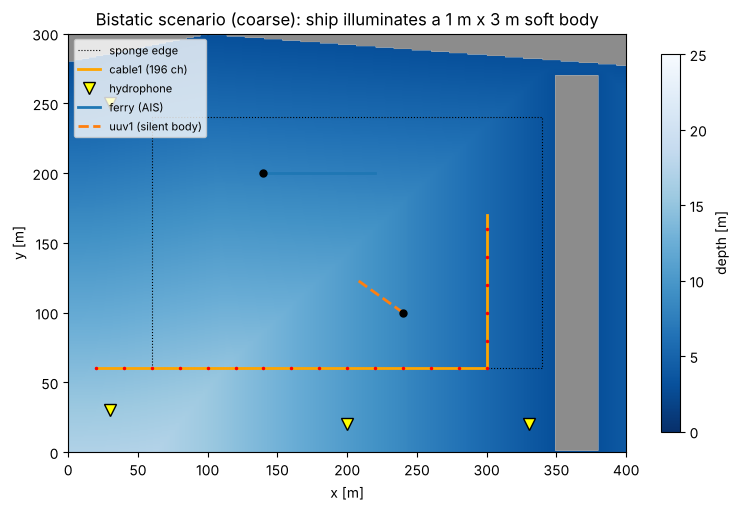
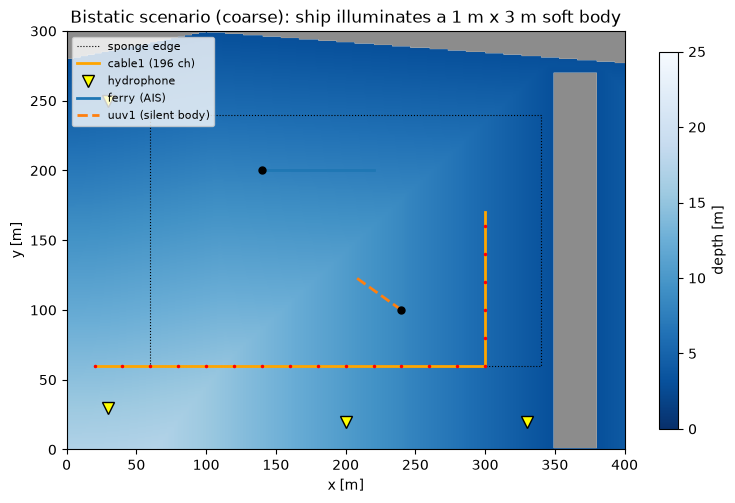
bistatic: ECA projection loading 1e-12 (0.3 dB from the QR on the fine case)

diff --git a/src/acoustic_sim/harbor/bistatic.py b/src/acoustic_sim/harbor/bistatic.py
@@ -415,14 +415,14 @@ class ECAReport:
     echo_lost_db: np.ndarray        # (N,) energy of the scattered component removed [dB]
 
 
-def _project_out(S: np.ndarray, segs: list[np.ndarray], loading: float = 1e-9) -> list[np.ndarray]:
+def _project_out(S: np.ndarray, segs: list[np.ndarray], loading: float = 1e-12) -> list[np.ndarray]:
     """Each segment minus its least squares projection on the columns of *S* (block, L).
 
     Normal equations with a Cholesky solve: ``S^T S`` is (L, L) with L of order 100 and costs one
     BLAS3 product, against a QR of the (block, L) matrix (85 ms per channel and block on the fine
     grid, 4000 of them per pass).  Adjacent lags of a band limited reference are nearly
-    collinear, so a relative diagonal *loading* keeps the solve stable (1e-9 is 90 dB below the
-    regressor power and does not limit the depth)."""
+    collinear, so a relative diagonal *loading* keeps the solve stable (1e-12 is 120 dB below the
+    regressor power; measured on the fine stage 0a case: QR 42.9 dB, 1e-9 41.8 dB, 1e-12 42.6 dB)."""
     G = S.T @ S
     G[np.diag_indices_from(G)] += loading * max(np.trace(G) / G.shape[0], 1e-300)
     try:
